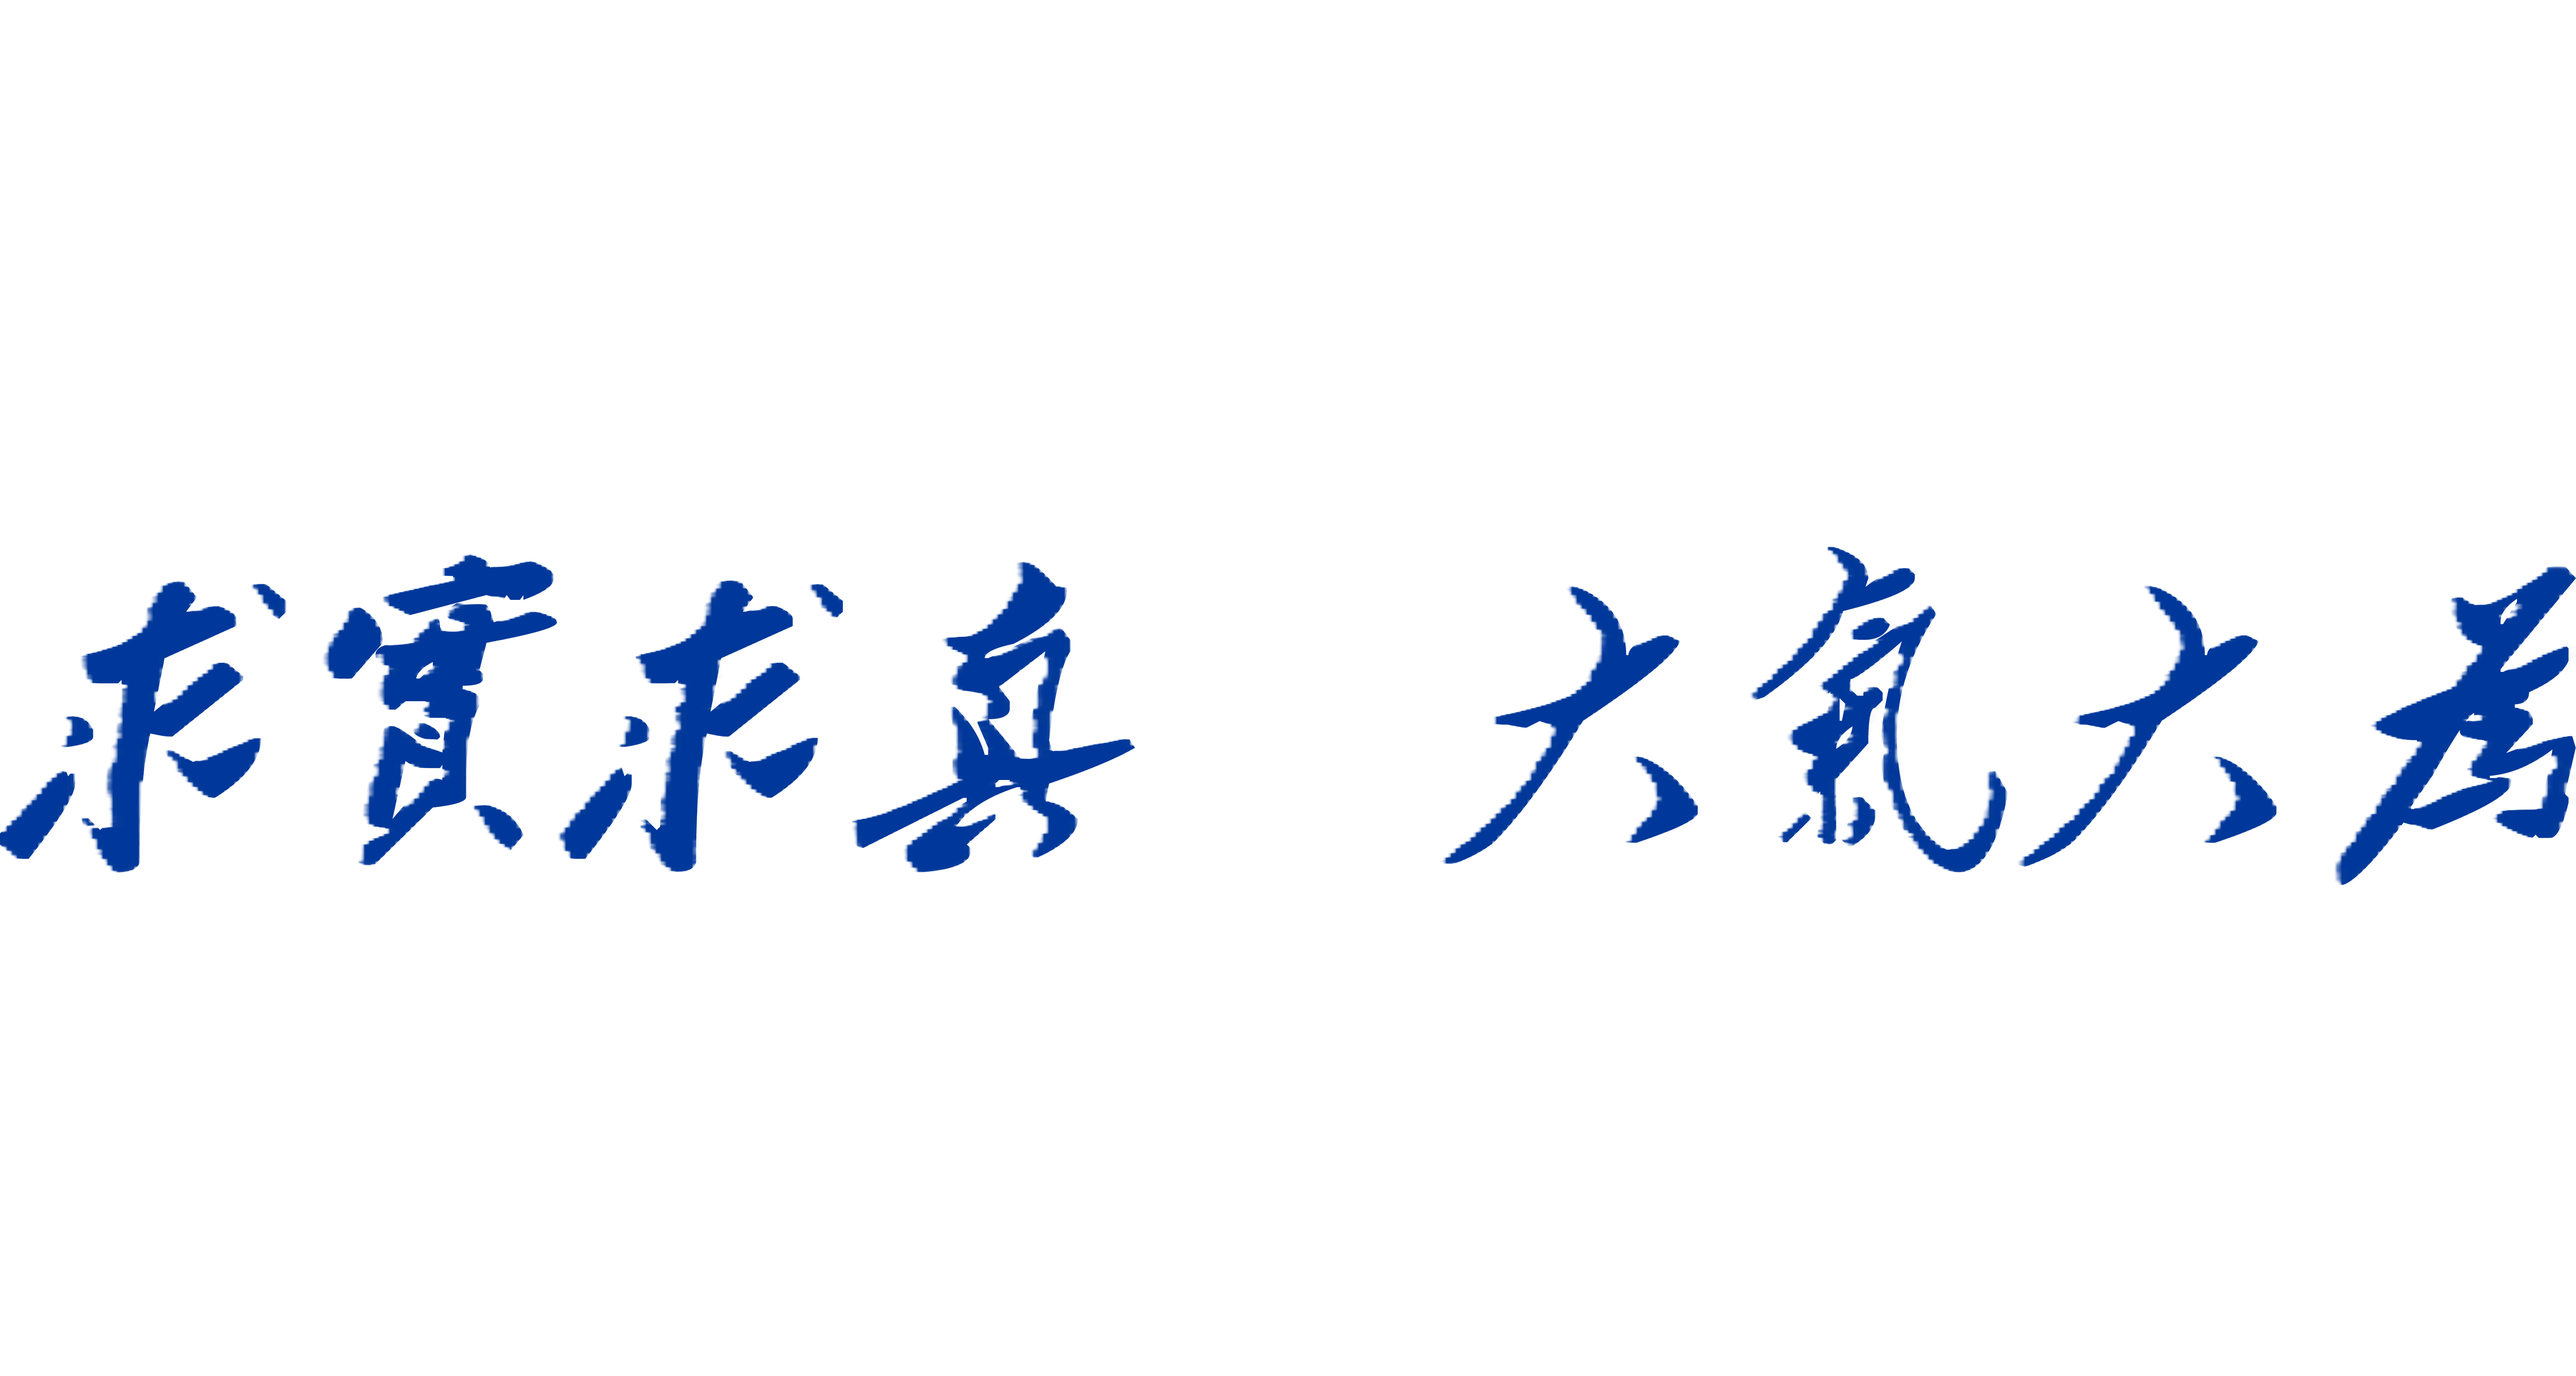
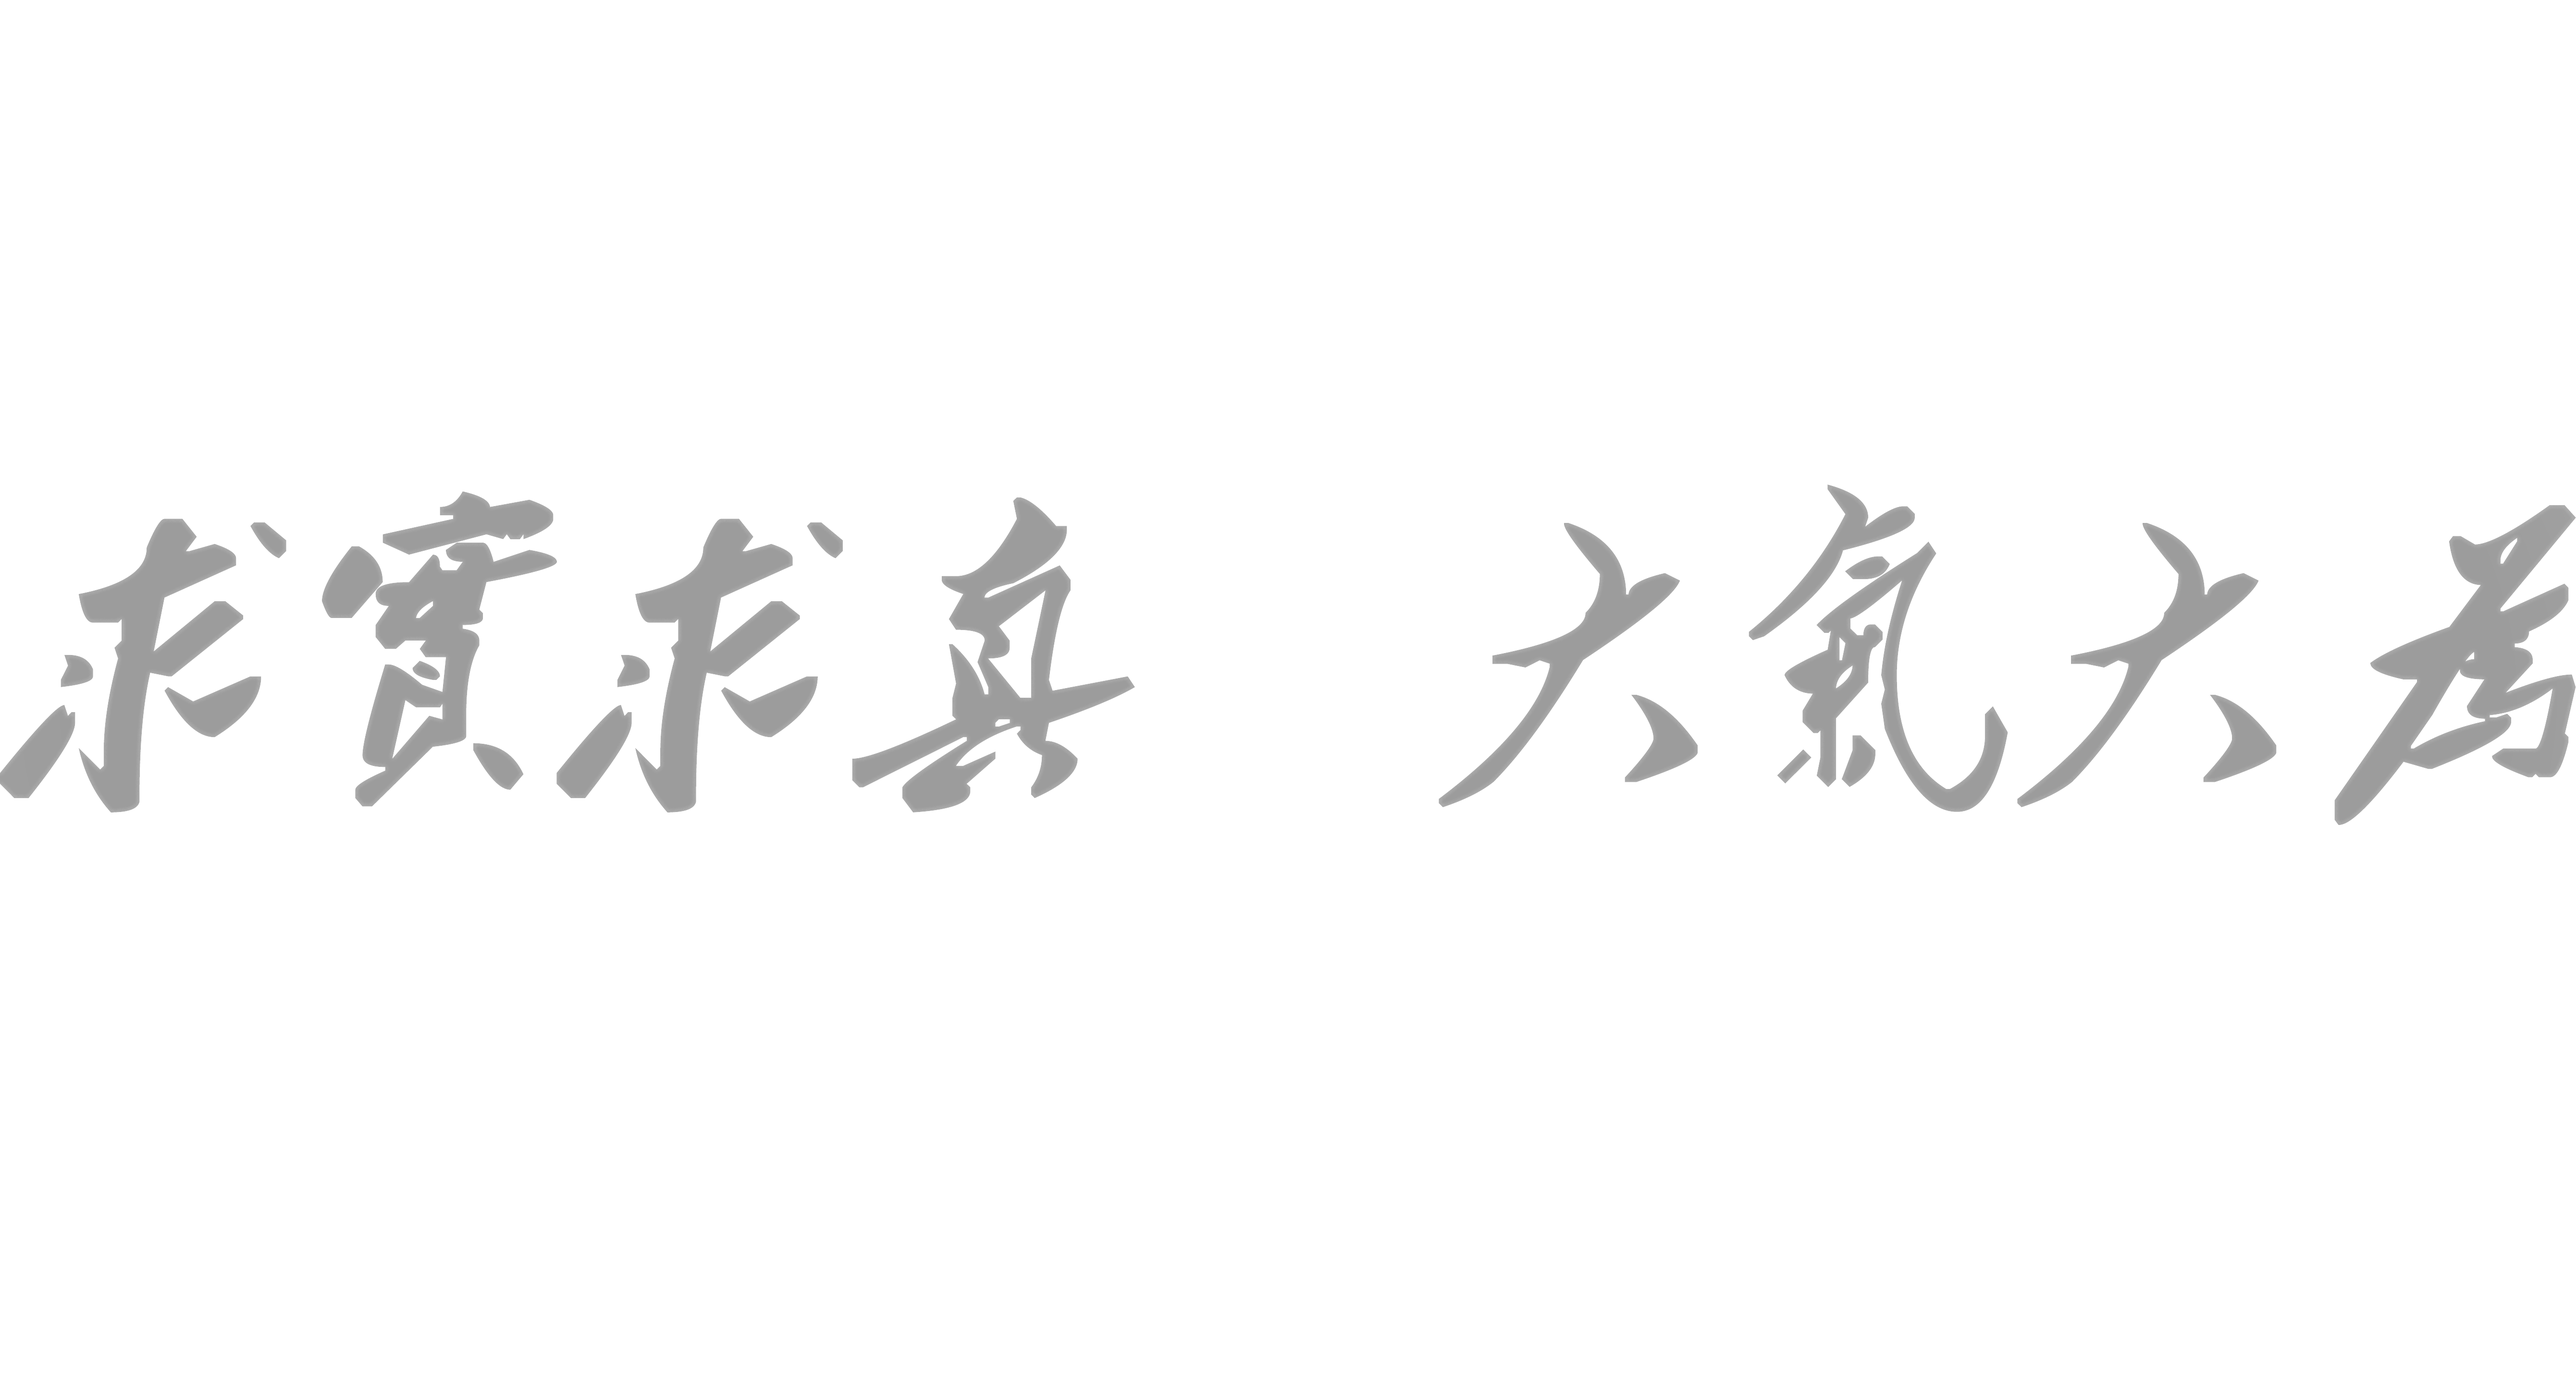
Routine update

Changed region(s): [[0.0, 0.3417, 0.4361, 0.6524], [0.6853, 0.3417, 1.0, 0.6524], [0.5607, 0.3728, 0.6542, 0.6213]]

diff --git a/docusaurus.config.js b/docusaurus.config.js
@@ -150,7 +150,7 @@ const config = {
           // src: 'img/UESTC_logo.png',
           // src: 'img/CFM_Circle.png',
           // src: 'img/motto.png',
-          src: 'img/Combined_Logo.png',
+          src: 'img/navbar.png',
         },
         items: [
           {
@@ -185,7 +185,7 @@ const config = {
         ],
       },
       footer: {
-        style: 'light',
+        style: 'dark',
         links: [
           {
             title: '👋 联系我',

diff --git a/src/css/custom.css b/src/css/custom.css
@@ -85,7 +85,7 @@ div[class^='announcementBar_'] {
 
 .footer {
   background-image: url('../../static/img/footer.png');
-  background-color: #d4d4d4a9;
+  /* background-color: #d4d4d4a9; */
   background-repeat: no-repeat;
   background-position: center;
   background-size: contain; /* 或者使用contain, auto等其他值 */
